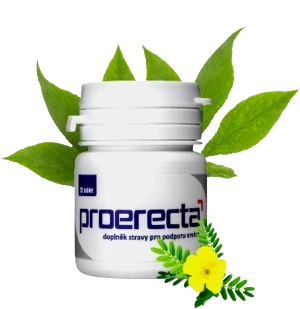
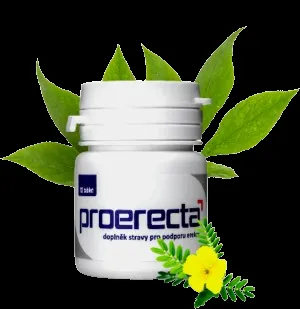
Checkpoint: Optimized all images in the public directory to WebP format to improve mobile performance.

diff --git a/optimize_all_images.py b/optimize_all_images.py
@@ -1,0 +1,43 @@
+import os
+from PIL import Image
+
+def optimize_image(input_path, output_path, max_width=1200, quality=80):
+    try:
+        with Image.open(input_path) as img:
+            # Convert to RGB if necessary
+            if img.mode in ('RGBA', 'P'):
+                img = img.convert('RGB')
+            
+            # Resize if larger than max_width
+            if img.width > max_width:
+                ratio = max_width / img.width
+                new_height = int(img.height * ratio)
+                img = img.resize((max_width, new_height), Image.Resampling.LANCZOS)
+            
+            # Save as WebP
+            img.save(output_path, 'WEBP', quality=quality)
+            print(f"Optimized: {input_path} -> {output_path}")
+            
+            # Print size comparison
+            original_size = os.path.getsize(input_path) / 1024
+            new_size = os.path.getsize(output_path) / 1024
+            print(f"Size reduced: {original_size:.2f}KB -> {new_size:.2f}KB")
+            
+    except Exception as e:
+        print(f"Error optimizing {input_path}: {e}")
+
+def process_directory(directory):
+    for root, dirs, files in os.walk(directory):
+        for file in files:
+            if file.lower().endswith(('.jpg', '.jpeg', '.png')):
+                input_path = os.path.join(root, file)
+                output_path = os.path.splitext(input_path)[0] + '.webp'
+                
+                # Skip if webp already exists and is newer
+                if os.path.exists(output_path) and os.path.getmtime(output_path) > os.path.getmtime(input_path):
+                    continue
+                    
+                optimize_image(input_path, output_path)
+
+# Run optimization on the entire images directory
+process_directory('/home/ubuntu/proerecta-landing/client/public/images')
